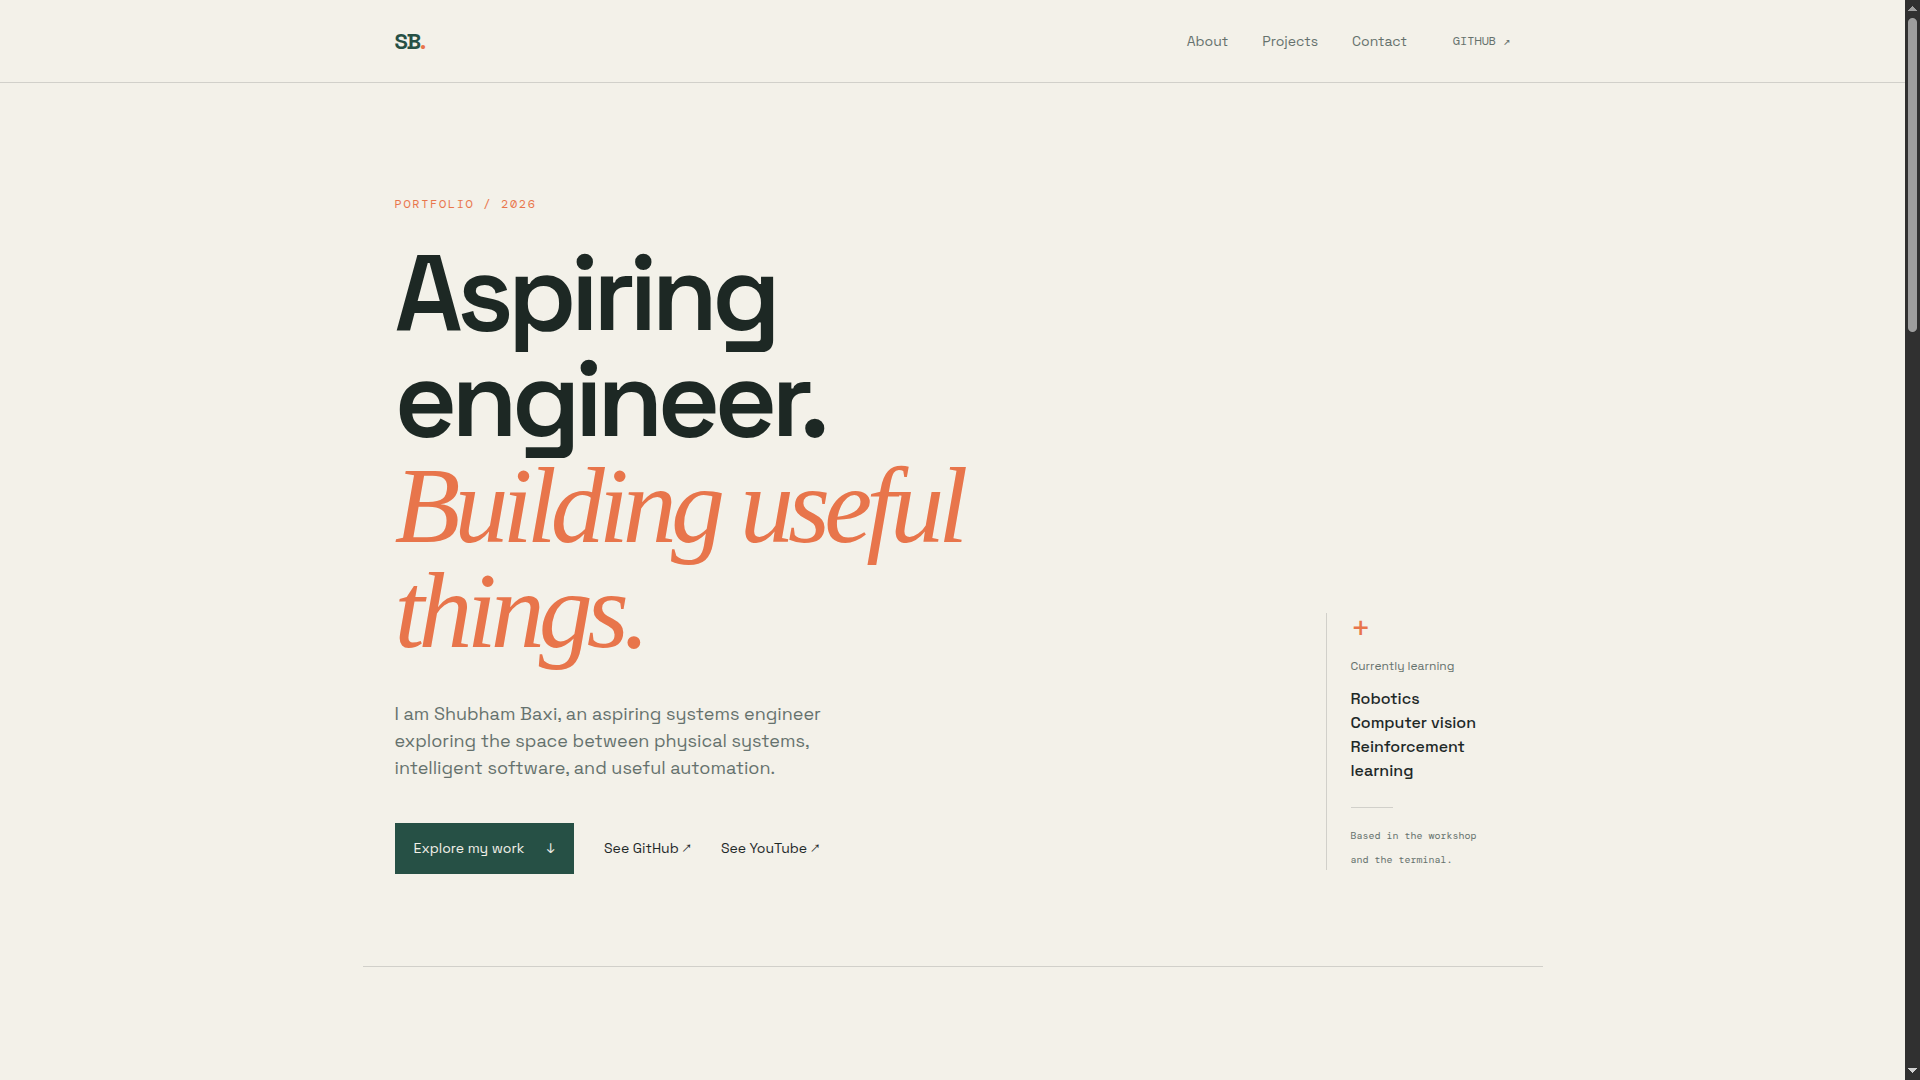
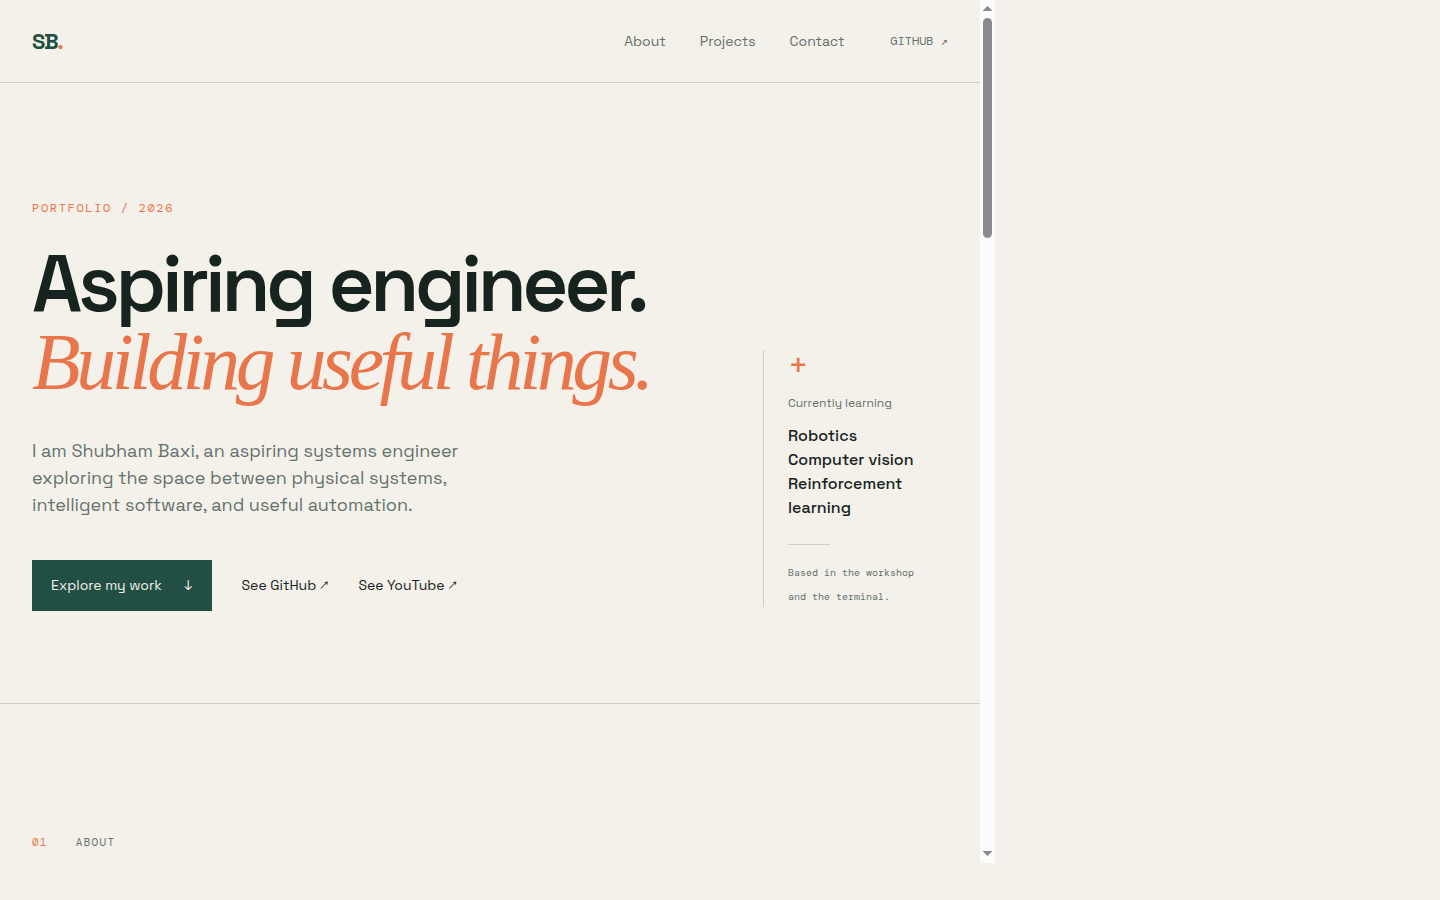
Refresh README website preview

diff --git a/README.md b/README.md
@@ -5,7 +5,8 @@ The personal portfolio of Shubham Baxi, an aspiring engineer exploring robotics,
 The site is a lightweight static website built with HTML and CSS. It introduces the author, highlights selected GitHub projects, and links visitors to GitHub and YouTube.
 
 ## Preview
-![Website Image](website_preview.png)
+
+![Website preview](website_preview.png)
 
 ## Features
 
